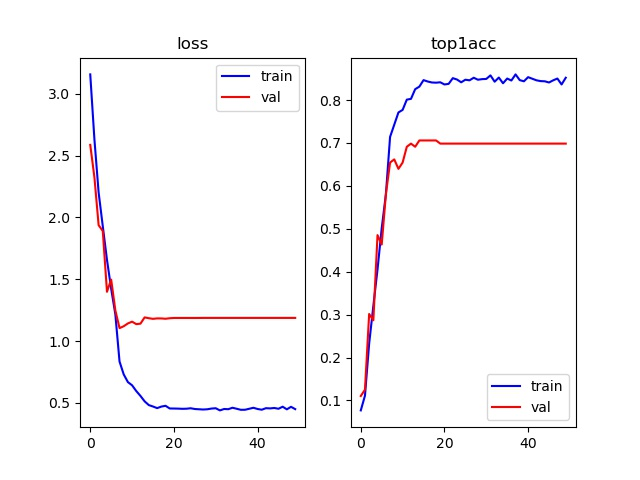
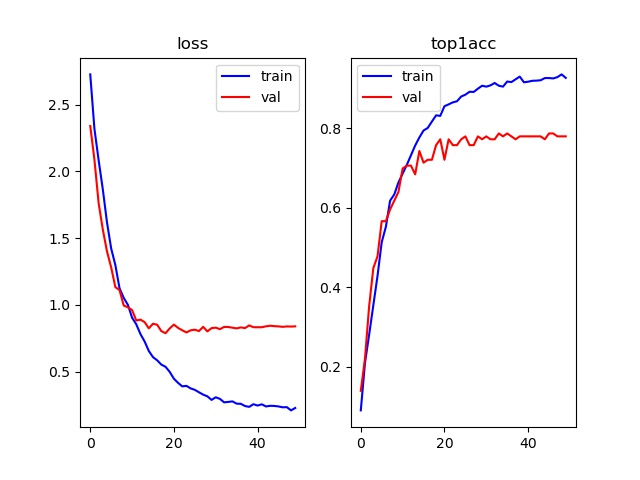
updated VGG results

diff --git a/VGG.py b/VGG.py
@@ -41,7 +41,7 @@ data_dir = 'flower'
 image_datasets = {x: datasets.ImageFolder(os.path.join(data_dir, x),
                                           data_transforms[x])
                   for x in ['train', 'val','test']}
-dataloaders = {x: torch.utils.data.DataLoader(image_datasets[x], batch_size=16,
+dataloaders = {x: torch.utils.data.DataLoader(image_datasets[x], batch_size=4,
                                              shuffle=True, num_workers=4)
               for x in ['train', 'val', 'test']}
 dataset_sizes = {x: len(image_datasets[x]) for x in ['train', 'val', 'test']}
@@ -150,27 +150,27 @@ def train_model(model, criterion, optimizer, scheduler, num_epochs=25):
             if phase == 'val' and epoch_acc > best_acc:
                 best_acc = epoch_acc
                 best_model_wts = copy.deepcopy(model.state_dict())
+        fig = plt.figure()
+        ax0 = fig.add_subplot(121, title="loss")
+        ax1 = fig.add_subplot(122, title="top1acc")
 
+        ax0.plot(x_epoch[:epoch + 1], train_loss, 'b-', label = 'train')
+        ax0.plot(x_epoch[:epoch + 1], val_loss, 'r-', label = 'val')
+        #ax0.plot(x_epoch, test_loss, 'g-', label = 'test')
+        ax1.plot(x_epoch[:epoch + 1], train_acc, 'b-', label = 'train')
+        ax1.plot(x_epoch[:epoch + 1], val_acc, 'r-', label = 'val')
+        #ax1.plot(x_epoch, test_acc, 'g-', label = 'test')
+        
+        ax0.legend()
+        ax1.legend()
+        fig.savefig(os.path.join('./lossGraphs', f'train_VGG.jpg'))
         print()
 
     time_elapsed = time.time() - since
     print(f'Training complete in {time_elapsed // 60:.0f}m {time_elapsed % 60:.0f}s')
     print(f'Best val Acc: {best_acc:4f}')
 
-    fig = plt.figure()
-    ax0 = fig.add_subplot(121, title="loss")
-    ax1 = fig.add_subplot(122, title="top1acc")
 
-    ax0.plot(x_epoch, train_loss, 'b-', label = 'train')
-    ax0.plot(x_epoch, val_loss, 'r-', label = 'val')
-    #ax0.plot(x_epoch, test_loss, 'g-', label = 'test')
-    ax1.plot(x_epoch, train_acc, 'b-', label = 'train')
-    ax1.plot(x_epoch, val_acc, 'r-', label = 'val')
-    #ax1.plot(x_epoch, test_acc, 'g-', label = 'test')
-    
-    ax0.legend()
-    ax1.legend()
-    fig.savefig(os.path.join('./lossGraphs', f'train_VGG.jpg'))
     # load best model weights
     model.load_state_dict(best_model_wts)
     return model
@@ -221,10 +221,11 @@ criterion = nn.CrossEntropyLoss()
 
 
 
-optimizer_ft = torch.optim.SGD(model.parameters(), lr=0.005, weight_decay = 0.005, momentum = 0.9)
+#optimizer_ft = torch.optim.SGD(model.parameters(), lr=0.005, weight_decay = 0.005, momentum = 0.9)
+optimizer_ft = torch.optim.Adam(model.parameters(), lr= 5e-06)
 
 # Decay LR by a factor of 0.1 every 7 epochs
-exp_lr_scheduler = lr_scheduler.StepLR(optimizer_ft, step_size=7, gamma=0.1)
+exp_lr_scheduler = lr_scheduler.StepLR(optimizer_ft, step_size=7, gamma=0.5)
 
 # %%
 
